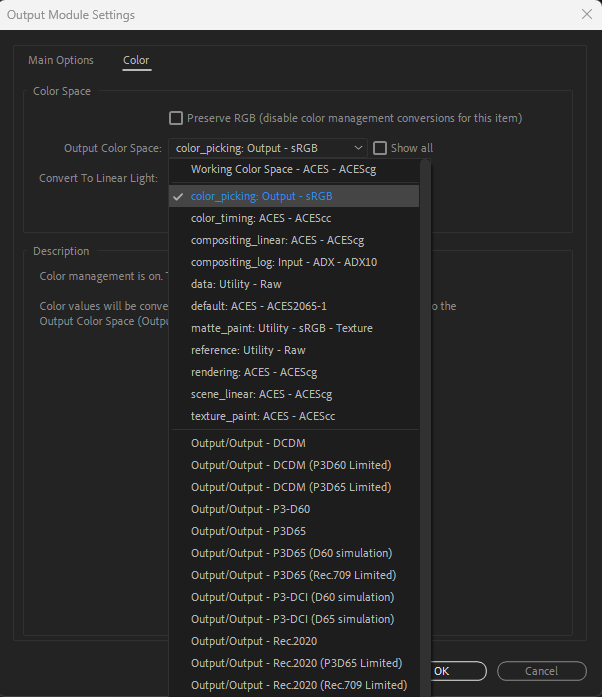
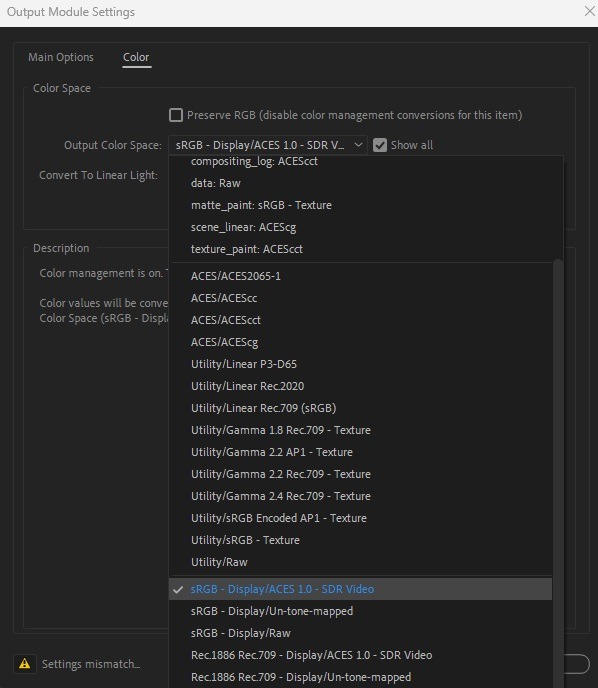
Fix Arnold Rendering lab

diff --git a/ucbugg-site/src/pages/labExport.js b/ucbugg-site/src/pages/labExport.js
@@ -1127,12 +1127,15 @@ import _camera_resolutionsrc_assets_labs_Post_Production_rendering_arnoldjpg fro
 import _create_comp_settingssrc_assets_labs_Post_Production_rendering_arnoldjpg from '../assets/labs/Post Production/rendering arnold/create_comp_settings.jpg'
 import _file_settingssrc_assets_labs_Post_Production_rendering_arnoldjpg from '../assets/labs/Post Production/rendering arnold/file_settings.jpg'
 import _frame_rangesrc_assets_labs_Post_Production_rendering_arnoldjpg from '../assets/labs/Post Production/rendering arnold/frame_range.jpg'
+import _GPU_render_settingssrc_assets_labs_Post_Production_rendering_arnoldjpg from '../assets/labs/Post Production/rendering arnold/GPU_render_settings.jpg'
 import _import_file_locationsrc_assets_labs_Post_Production_rendering_arnoldjpg from '../assets/labs/Post Production/rendering arnold/import_file_location.jpg'
 import _import_settingssrc_assets_labs_Post_Production_rendering_arnoldjpg from '../assets/labs/Post Production/rendering arnold/import_settings.jpg'
 import _interpret_footage_locationsrc_assets_labs_Post_Production_rendering_arnoldjpg from '../assets/labs/Post Production/rendering arnold/interpret_footage_location.jpg'
-import _interpret_footage_settings1src_assets_labs_Post_Production_rendering_arnoldpng from '../assets/labs/Post Production/rendering arnold/interpret_footage_settings1.png'
+import _interpret_footage_settings1src_assets_labs_Post_Production_rendering_arnoldjpg from '../assets/labs/Post Production/rendering arnold/interpret_footage_settings1.jpg'
 import _interpret_footage_settings2src_assets_labs_Post_Production_rendering_arnoldpng from '../assets/labs/Post Production/rendering arnold/interpret_footage_settings2.png'
 import _motion_blur_settings_3src_assets_labs_Post_Production_rendering_arnoldpng from '../assets/labs/Post Production/rendering arnold/motion_blur_settings_3.png'
+import _Noice_Locationsrc_assets_labs_Post_Production_rendering_arnoldjpg from '../assets/labs/Post Production/rendering arnold/Noice_Location.jpg'
+import _Noice_Settingssrc_assets_labs_Post_Production_rendering_arnoldjpg from '../assets/labs/Post Production/rendering arnold/Noice_Settings.jpg'
 import _output_module_settingssrc_assets_labs_Post_Production_rendering_arnoldjpg from '../assets/labs/Post Production/rendering arnold/output_module_settings.jpg'
 import _project_settings_color_3src_assets_labs_Post_Production_rendering_arnoldjpg from '../assets/labs/Post Production/rendering arnold/project_settings_color_3.jpg'
 import _project_settings_color_managementsrc_assets_labs_Post_Production_rendering_arnoldpng from '../assets/labs/Post Production/rendering arnold/project_settings_color_management.png'
@@ -2823,12 +2826,15 @@ const data = {
         "create_comp_settings.jpg": _create_comp_settingssrc_assets_labs_Post_Production_rendering_arnoldjpg,
         "file_settings.jpg": _file_settingssrc_assets_labs_Post_Production_rendering_arnoldjpg,
         "frame_range.jpg": _frame_rangesrc_assets_labs_Post_Production_rendering_arnoldjpg,
+        "GPU_render_settings.jpg": _GPU_render_settingssrc_assets_labs_Post_Production_rendering_arnoldjpg,
         "import_file_location.jpg": _import_file_locationsrc_assets_labs_Post_Production_rendering_arnoldjpg,
         "import_settings.jpg": _import_settingssrc_assets_labs_Post_Production_rendering_arnoldjpg,
         "interpret_footage_location.jpg": _interpret_footage_locationsrc_assets_labs_Post_Production_rendering_arnoldjpg,
-        "interpret_footage_settings1.png": _interpret_footage_settings1src_assets_labs_Post_Production_rendering_arnoldpng,
+        "interpret_footage_settings1.jpg": _interpret_footage_settings1src_assets_labs_Post_Production_rendering_arnoldjpg,
         "interpret_footage_settings2.png": _interpret_footage_settings2src_assets_labs_Post_Production_rendering_arnoldpng,
         "motion_blur_settings_3.png": _motion_blur_settings_3src_assets_labs_Post_Production_rendering_arnoldpng,
+        "Noice_Location.jpg": _Noice_Locationsrc_assets_labs_Post_Production_rendering_arnoldjpg,
+        "Noice_Settings.jpg": _Noice_Settingssrc_assets_labs_Post_Production_rendering_arnoldjpg,
         "output_module_settings.jpg": _output_module_settingssrc_assets_labs_Post_Production_rendering_arnoldjpg,
         "project_settings_color_3.jpg": _project_settings_color_3src_assets_labs_Post_Production_rendering_arnoldjpg,
         "project_settings_color_management.png": _project_settings_color_managementsrc_assets_labs_Post_Production_rendering_arnoldpng,

diff --git a/ucbugg-site/src/assets/labs/Post Production/rendering arnold/rendering - arnold.md b/ucbugg-site/src/assets/labs/Post Production/rendering arnold/rendering - arnold.md
@@ -1,5 +1,8 @@
 # Introduction
 
+> (!important)
+> You should read this lab in its ENTIRETY before starting
+
 Welcome to the Arnold rendering lab! In this lab, we will be going over the render settings used by the Arnold renderer, as well as how to set up After Effects to display your beautiful short in all its glory.
 
 For this lab, you will be needing **Adobe After Effects** installed.
@@ -49,8 +52,6 @@ Next you want to change your image format to **exr**. Exr files can store a lot 
 
 Under Metadata, you want to change Frame/Animation ext to **name#.ext**. This will make it so you can render more than 1 frame during the rendering sequence.
 
-Also make sure to change your Color Space to Raw
-
 ![](frame_range.jpg)
 
 Next, scroll down and you want to set your start frame and end frame of your render sequence here
@@ -70,12 +71,13 @@ Next, go and click on the Arnold Render tab
 
 ![](renderSettings_arnoldRenderer_2.jpg)
 
-You want to change your **Camera (AA)** to 4 as an optimal value. This value will change the number of samples you have. Here, a Camera (AA) value of 4 will give you 16 samples.
-
-Since the number of samples essentially is the value of how many particles of light to simulate, the number of samples directly correlates to how detailed your render will be. Lower samples results in a more grainy image while higher samples results in a more clear image.
+You want to change your **Camera (AA)** to 4 as an optimal value. This value will change the number of samples you have. Here, a Camera (AA) value of 4 will give you 16 camera samples.
 
 > (!info)
-> I recommend keeping this value from between 3 to 6. Anything too low will result in an overly grainy image, and anything too high will dramatically increase the amount of time it takes to render your scene.
+> I recommend keeping this value from between 3 to 5. Anything too low will result in an overly grainy image, and anything too high will dramatically increase the amount of time it takes to render your scene.
+
+Since the number of samples essentially is the value of how many particles of light to simulate, the number of samples directly correlates to how detailed your render will be. Lower samples results in a more grainy image while higher samples results in a more clear image. Depending on how your scene is structured, mess around with the other sample counts like Diffuse, Specular, Transmission, etc to see if your scene still looks good. Do a couple test renders to optimize.  
+Additionally, you can take a look under Ray Depth and mess around with those settings. To understand what this does more, review the lecture slides
 
 If you have any edge outlines in your scene (IE: Toon Shader), setting the Filter Type to "contour" will make it actually work.
 
@@ -85,13 +87,24 @@ _Interesting settings to note under Arnold Renderer tab_
 - You can enable motion blur by going to Motion Blur and clicking enable. Here are the settings referenced by the official Arnold documentation
   ![](motion_blur_settings_3.png)
 
+> (!important)
+> I would recommend NOT using motion blur here as 3D motion blur is often overkill and will drastically increase your render times
+
+If you have a compatible scene, you can render using GPU instead of CPU. Arnold does not have GPU rendering for any scenes that are Toon Shaded or have Volumetrics. Unfortunately, you will have to CPU render if that's the case. Additionally, you must have a compatible Nvidia GPU.
+
+You can go to the System tab and change your Render Device to GPU if your scene meets the requirements. Rendering with GPU is leagues faster than with CPU.
+
+![](GPU_render_settings.jpg)
+
+Here, you want to enable manual device selection and select your gpu as well just to be on the safe side.
+
 ---
 
 Next, you want to navigate to the AOVs tab.
 
 ![](renderSettings_AOVs_3.jpg)
 
-Now, you want to go to the **AOV Browser** and among the Available AOVs menu, find and add RGBA. This will specify the color channels and settings for your .exr files. TLDR match the image above.
+Now, you want to go to the **AOV Browser** and among the Available AOVs menu, find and add N (Normal), P (Position), and albedo. These AOVs will help the Arnold Denoiser in denoising your image. Also, make sure you check Output Denoising AOVs at the top. To add AOVs, simply select the respective AOV from the left under Available AOVs, and click the arrow to move it to the right.
 
 ## Time to actually render!
 
@@ -107,6 +120,26 @@ Once you're done double checking everything, click Render Sequence and wait!
 
 > (!important)
 > During this time, Maya will be frozen. Rendering will take a very very long time. If at any point you want to stop the rendering, click ESCAPE on your keyboard. On the flip side, **DO NOT CLICK ESCAPE UNLESS YOU WANT TO STOP YOUR RENDERING**
+
+> (!important)
+> ALWAYS render 1 frame first before leaving your computer. Render 1 frame, check your EXR, make sure everything is correct, colors work, etc. You can view EXR files in Maya by opening the Arnold Render View and going to File -> Open. It would really bad if you spent days rendering your short only to realize that your render settings weren't working. RENDER 1 FRAME FIRST!!!
+
+## Denoising
+
+Once your scene finishes rendering, you can now move onto denoising. This is one particular method of denoising and it is a bit slow, however it does achieve better results than a 2D denoiser like the ones in After Effect. If your scene does not need denoising or you want to do it in After Effects instead, then skip this step.
+
+![](Noice_Location.jpg)
+
+You can find the Noice denoiser by going to Arnold -> Utilities -> Arnold Denoiser (noice)
+
+![](Noice_Settings.jpg)
+
+Here you can adjust the denoiser settings. The first thing to pay attention to is the input and output locations of your file. Set your input to where you store your exrs. The #### in the file path indicate the relative number/index of the file. For example, if your files are named file0001.exr, file0002.exr, etc, you want to put file####.exr. Alternatively, if your files are named file.0001.exr, file.0002.exr, you want to put file.####.exr. If you followed the file naming conventions earlier in this lab, it should be file####.exr.
+
+- Temporal Stability frames determine who stable your denoising is over time. A higher value will make the denoider look at more frames in order to temporally denoise.
+- Pixel search radius is how many pixels the denoiser looks at to determine the color of any individual pixel.
+
+Play around with these two settings with a small frame range until you're satisfied before doing it on the complete sequence. This process might take a while
 
 # Compositing
 
@@ -124,34 +157,7 @@ Here, you want to navigate to the location where you stored all your exr's for y
 
 Make sure OpenEXR Sequence is checked.
 
-![](create_comp_settings.jpg)
-
-You want to right click your exr sequence and create New Comp from Selection
-
-> (!info)
-> **If your composition displays everything correctly, you can skip this entire next part until AE Rendering**
-
-Now you should have a composition that you can play! Unfortunately, it may be completely black.
-
-![](black_screen.jpg)
-
-To fix this, right click your exr sequence and go to Interpret Footage -> Main
-
-![](interpret_footage_settings1.png)
-
-Here, make sure to change the Alpha to Ignore.
-
-Now, you should be able to see color! Unfortunately, your scene will now look incredibly whitewashed.
-
-![](whitewashed.jpg)
-
-To fix this, go back to the same Interpret Footage settings, and go to the Color tab and click Preserve RGB.
-
-![](interpret_footage_settings2.png)
-
-Unfortunately again, your scene will now look too dark
-
-![](too_dark.jpg)
+Next, you want to match After Effect's color space to the one we were using in Maya to make sure all the colors are correct.
 
 Go to File -> Project Settings
 
@@ -162,15 +168,31 @@ Here, go to the color tab and change the Color Engine from Adobe color managed t
 ![](project_settings_color_management.png)
 
 Make sure these settings are set to the following.
-Working Color Space should be set to **compositing_linear: ACES - ACEScg** and Display Color Space should be set to **ACES/Raw**
+OCIO Configuration should be set to **ACES 1.3 CG v1.0**. Working Color Space should be set to **ACEScg** and Display Color Space should be set to **sRGB - Display/ACES 1.0 - SDR Video**
 
 ![](project_settings_color_3.jpg)
 
-Now, when you save, your colors should look right!
+Next, right click your exr sequence and go to Interpret Footage -> Main
+
+![](interpret_footage_settings1.jpg)
+
+Set Alpha to ignore if your footage is completely black, if not, you can leave it as is.  
+**However, make sure to set your frame rate to 24fps!**
+
+![](interpret_footage_settings2.png)
+
+Next, go to the color tab and make sure Override Media Color Space is set to **ACES/ACEScg**
+
+![](create_comp_settings.jpg)
+
+Now, you want to right click your exr sequence and create New Comp from Selection
+
+You should have a composition that you can play!
 
 ---
 
-Here in After Effects, you can do lots of post processing touch ups if you want. For example, you can denoise, mask, apply other color correction settings, and more. Experiment with it to see what works for you!
+Here in After Effects, you can do lots of post processing touch ups if you want. For example, you can mask, apply other color correction settings, add bloom, and more! Experiment with it to see what works for you!  
+If you want to mess around with specific AOVs, you need to duplicate your exr sequence in your workspace and apply an EXtractoR effect to it. This will allow you to select specific AOVs to display.
 
 ---
 
@@ -186,21 +208,13 @@ Next, click on the button that is circled in blue in the above picture. This wil
 
 ![](output_module_settings.jpg)
 
-Navigate to the Color tab, and make sure the Output Color Space is set to **color_picking: Output - sRGB**
+Navigate to the Color tab, and make sure the Output Color Space is set to **sRGB - Display/ACES 1.0 - SDR Video**
 
-Now, you can finally select the compositions you want to render and click the render button, wait 10 years, and you're done!
+Now, you can finally select the compositions you want to render and click the render button, wait 10 more years, and you're done!
 
 ![](AE_render_button.jpg)
 
 You should now have an .mp4 file that you can play as a video.
 
 > (!info)
-> If you plan to do more extensive compositing, it might be wise to render/export individual exr sequences as mp4s and then reimport that into After Effects or Adobe Premiere since it will load faster.
-
-# Optional reading
-
-If you're curious as to why the colors were messed up when you imported your exrs into After Effects, you have to understand the idea of color spaces.
-
-TLDR: You cannot display the entire visible spectrum of color on your screen, so we define a small subset of it called a color space to display. For example, RGB is a color space, and CMYK (used for prints) is another color space. Maya and After Effects are owned by different companies and each use their own color space, which is why it's important to change your color space so you can have the correct colors!
-
-https://en.wikipedia.org/wiki/Color_space
+> If you plan to do video editing, it might be wise to render/export individual exr sequences as mp4s and then reimport that Adobe Premiere since it will load faster and has a more efficient workflow for those types of processes.
